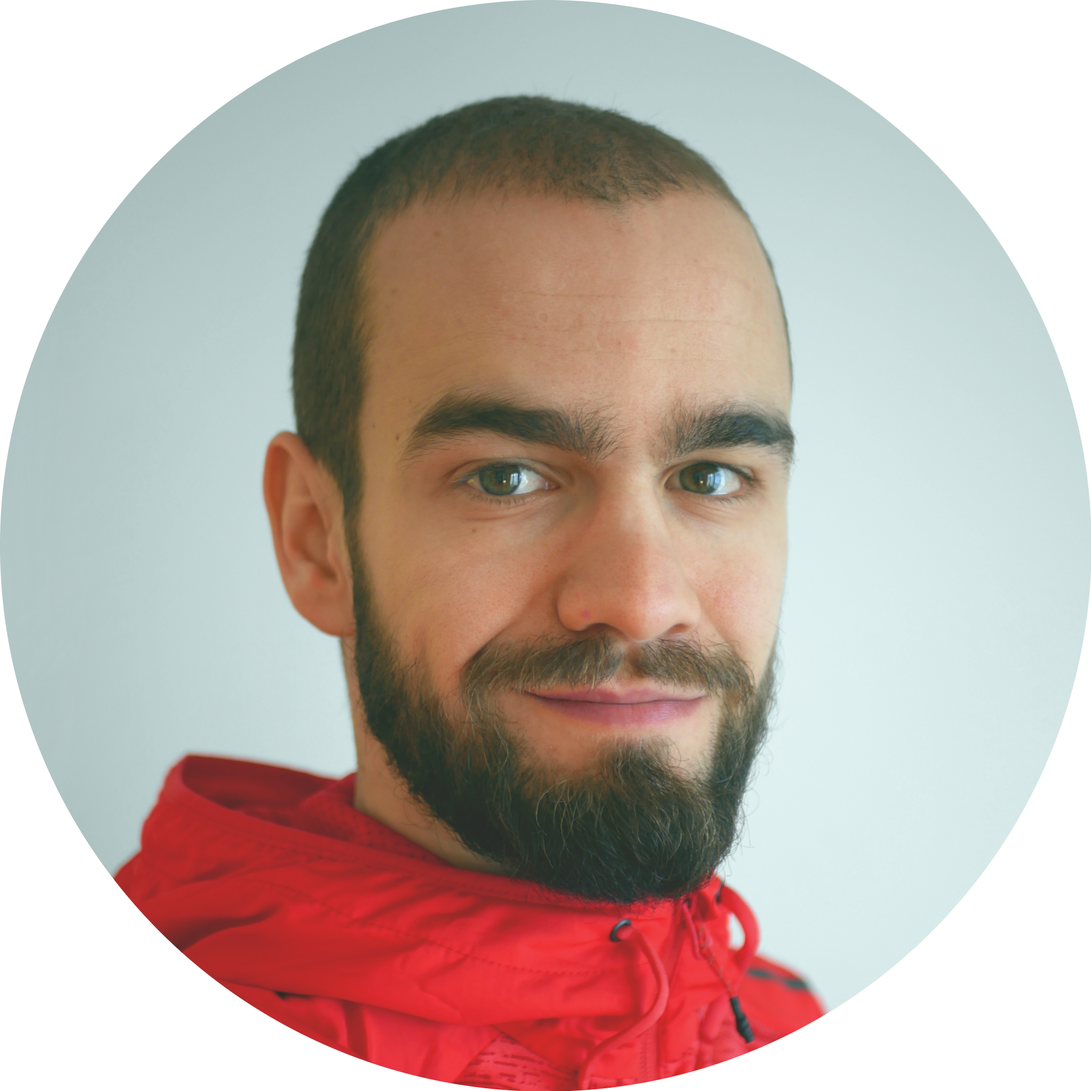
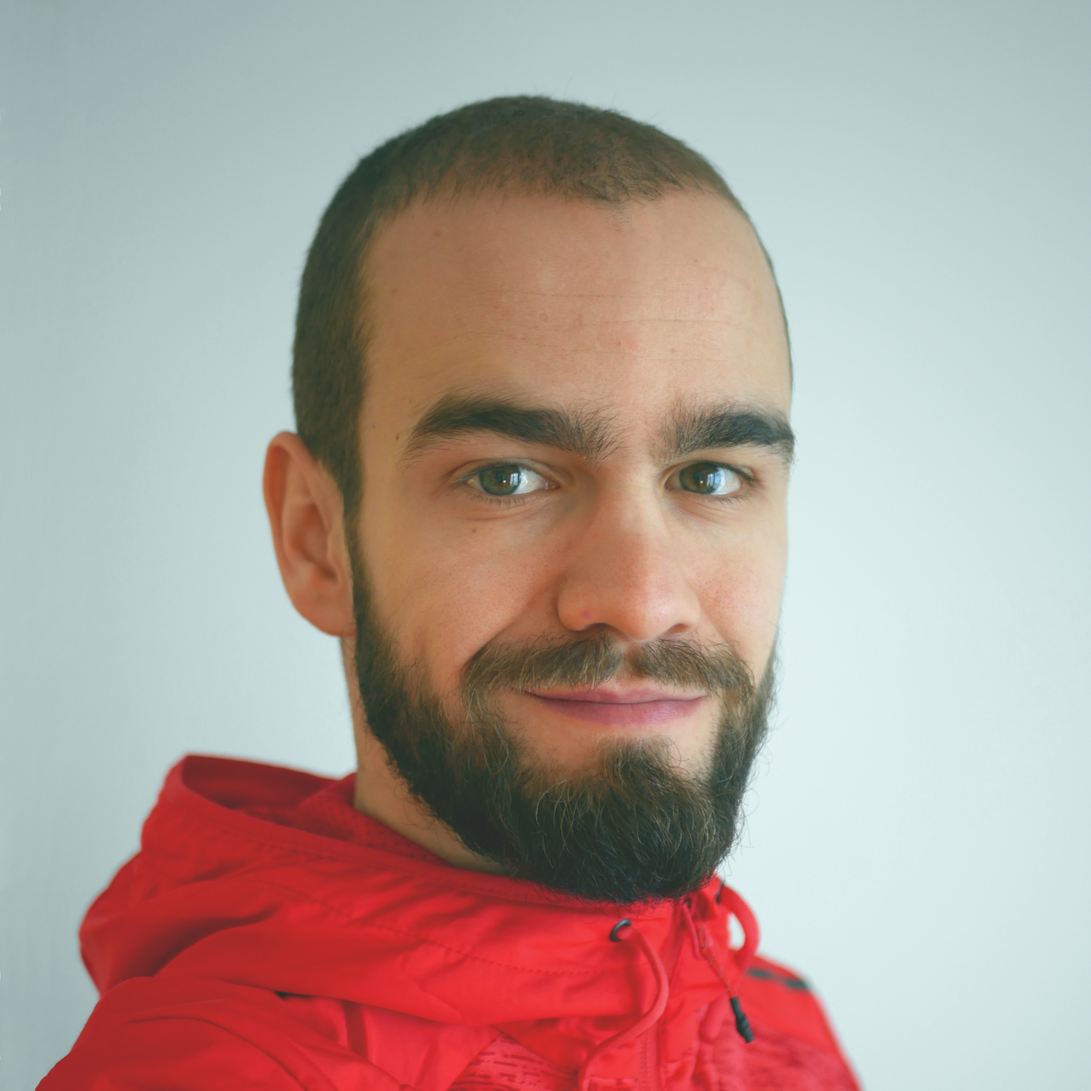
Ajout de bannière

diff --git a/style.css b/style.css
@@ -8,9 +8,23 @@ body {
     margin-bottom: 2rem;
 }
 
+.background {
+    position: absolute;
+    top: 0;
+    left: 0;
+    right: 0;
+    height: 15rem;
+    background: #C62828;
+}
+
 .profile {
+    position: relative;
     width: 20rem;
     height: auto;
+    border-radius: 50%;
+    border: 5px solid #FAFAFA;
+    z-index: 1;
+    background: #FAFAFA;
 }
 
 h1 {
@@ -73,7 +87,7 @@ button:focus {
 }
 
 .instagram {
-    background: linear-gradient(45deg, #f09433 0%,#e6683c 25%,#dc2743 50%,#cc2366 75%,#bc1888 100%);
+    background: linear-gradient(45deg, #f09433 0%, #e6683c 25%, #dc2743 50%, #cc2366 75%, #bc1888 100%);
 }
 
 .linkedin {

diff --git a/index.html b/index.html
@@ -34,6 +34,8 @@
 
 <body>
 
+	<div class="background"></div>
+
 	<img src="profile.png" class="profile" />
 	<h1>Antoine Kahlouche</h1>
 	<h2>Find me on the internet !!</h2>
